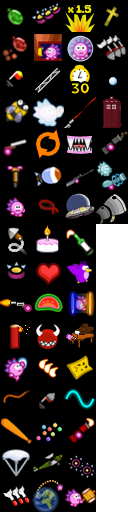
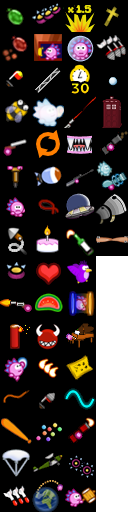
Add rubber utility. Graphics are still incomplete. Also flag snow/ice in theme config.

Changed region(s): [[0.75, 0.4375, 1.0, 0.5]]

diff --git a/QTfrontend/weapons.h b/QTfrontend/weapons.h
@@ -21,45 +21,45 @@
 //skip---------------------------------|
 //structure------------------------------------------------------------------|
 
-#define AMMOLINE_DEFAULT_QT     "9391929422199121032235111001201000000211110101011111121"
-#define AMMOLINE_DEFAULT_PROB   "0405040541600655546554464776576666666155510101115411121"
-#define AMMOLINE_DEFAULT_DELAY  "0000000000000205500000040007004000000000220000000600020"
-#define AMMOLINE_DEFAULT_CRATE  "1311110312111111123114111111111111111211111101111111121"
+#define AMMOLINE_DEFAULT_QT     "93919294221991210322351110012010000002111101010111111211"
+#define AMMOLINE_DEFAULT_PROB   "04050405416006555465544647765766666661555101011154111211"
+#define AMMOLINE_DEFAULT_DELAY  "00000000000002055000000400070040000000002200000006000200"
+#define AMMOLINE_DEFAULT_CRATE  "13111103121111111231141111111111111112111111011111111211"
 
-#define AMMOLINE_CRAZY_QT       "9999999999999999992999999999999999299999999909999992999"
-#define AMMOLINE_CRAZY_PROB     "1111110111111111111111111111111111111111111101111111111"
-#define AMMOLINE_CRAZY_DELAY    "0000000000000000000000000000000000000000000000000000000"
-#define AMMOLINE_CRAZY_CRATE    "1311110312111111123114111111111111111211110101111111121"
+#define AMMOLINE_CRAZY_QT       "99999999999999999929999999999999992999999999099999929999"
+#define AMMOLINE_CRAZY_PROB     "11111101111111111111111111111111111111111111011111111111"
+#define AMMOLINE_CRAZY_DELAY    "00000000000000000000000000000000000000000000000000000000"
+#define AMMOLINE_CRAZY_CRATE    "13111103121111111231141111111111111112111101011111111211"
 
-#define AMMOLINE_PROMODE_QT     "9090009000000000000009000000000000000000000000000000000"
-#define AMMOLINE_PROMODE_PROB   "0000000000000000000000000000000000000000000000000000000"
-#define AMMOLINE_PROMODE_DELAY  "0000000000000205500000040007004000000000200000000000020"
-#define AMMOLINE_PROMODE_CRATE  "1111110111111111111111111111111111111111100101111111121"
+#define AMMOLINE_PROMODE_QT     "90900090000000000000090000000000000000000000000000000000"
+#define AMMOLINE_PROMODE_PROB   "00000000000000000000000000000000000000000000000000000000"
+#define AMMOLINE_PROMODE_DELAY  "00000000000002055000000400070040000000002000000000000200"
+#define AMMOLINE_PROMODE_CRATE  "11111101111111111111111111111111111111111001011111111211"
 
-#define AMMOLINE_SHOPPA_QT      "0000009900000000000000000000000000000000000000000000000"
-#define AMMOLINE_SHOPPA_PROB    "4444410044244402210112121222422000000002000400010011001"
-#define AMMOLINE_SHOPPA_DELAY   "0000000000000000000000000000000000000000000000000000000"
-#define AMMOLINE_SHOPPA_CRATE   "1111110111111111111111111111111111111111101101111111121"
+#define AMMOLINE_SHOPPA_QT      "00000099000000000000000000000000000000000000000000000000"
+#define AMMOLINE_SHOPPA_PROB    "44444100442444022101121212224220000000020004000100110010"
+#define AMMOLINE_SHOPPA_DELAY   "00000000000000000000000000000000000000000000000000000000"
+#define AMMOLINE_SHOPPA_CRATE   "11111101111111111111111111111111111111111011011111111210"
 
-#define AMMOLINE_CLEAN_QT       "1010009000010000011000000000000000000000000000001000000"
-#define AMMOLINE_CLEAN_PROB     "0405040541600655546554464776576666666155510101115411121"
-#define AMMOLINE_CLEAN_DELAY    "0000000000000000000000000000000000000000000000000000020"
-#define AMMOLINE_CLEAN_CRATE    "1311110312111111123114111111111111111211111101111111121"
+#define AMMOLINE_CLEAN_QT       "10100090000100000110000000000000000000000000000010000000"
+#define AMMOLINE_CLEAN_PROB     "04050405416006555465544647765766666661555101011154111211"
+#define AMMOLINE_CLEAN_DELAY    "00000000000000000000000000000000000000000000000000000200"
+#define AMMOLINE_CLEAN_CRATE    "13111103121111111231141111111111111112111111011111111211"
 
-#define AMMOLINE_MINES_QT       "0000009900090000000300000000000000000000000000000000000"
-#define AMMOLINE_MINES_PROB     "0000000000000000000000000000000000000000000000000000000"
-#define AMMOLINE_MINES_DELAY    "0000000000000205500000040007004000000000200000000600020"
-#define AMMOLINE_MINES_CRATE    "1111110111111111111111111111111111111111111101111111121"
+#define AMMOLINE_MINES_QT       "00000099000900000003000000000000000000000000000000000000"
+#define AMMOLINE_MINES_PROB     "00000000000000000000000000000000000000000000000000000000"
+#define AMMOLINE_MINES_DELAY    "00000000000002055000000400070040000000002000000006000200"
+#define AMMOLINE_MINES_CRATE    "11111101111111111111111111111111111111111111011111111211"
 
-#define AMMOLINE_PORTALS_QT     "9000009002000000002100000000000000110000090000000000000"
-#define AMMOLINE_PORTALS_PROB   "0405040541600655546554464776576666666155510101115411121"
-#define AMMOLINE_PORTALS_DELAY  "0000000000000205500000040007004000000000200000000600020"
-#define AMMOLINE_PORTALS_CRATE  "1311110312111111123114111111111111111211111101111111121"
+#define AMMOLINE_PORTALS_QT     "90000090020000000021000000000000001100000900000000000000"
+#define AMMOLINE_PORTALS_PROB   "04050405416006555465544647765766666661555101011154111211"
+#define AMMOLINE_PORTALS_DELAY  "00000000000002055000000400070040000000002000000006000200"
+#define AMMOLINE_PORTALS_CRATE  "13111103121111111231141111111111111112111111011111111211"
 
-#define AMMOLINE_ONEEVERY_QT    "1111119111111111111111111111111111111111111111111111111"
-#define AMMOLINE_ONEEVERY_PROB  "1111110111111111111111111111111111111111111111111111111"
-#define AMMOLINE_ONEEVERY_DELAY "0000000000000000000000000000000000000000000000000000000"
-#define AMMOLINE_ONEEVERY_CRATE "1111110111111111111111111111111111111111111111111111111"
+#define AMMOLINE_ONEEVERY_QT    "11111191111111111111111111111111111111111111111111111111"
+#define AMMOLINE_ONEEVERY_PROB  "11111101111111111111111111111111111111111111111111111111"
+#define AMMOLINE_ONEEVERY_DELAY "00000000000000000000000000000000000000000000000000000000"
+#define AMMOLINE_ONEEVERY_CRATE "11111101111111111111111111111111111111111111111111111111"
 
 //When adding new weapons also insert one element in cDefaultAmmos list (hwconsts.cpp.in)
 
